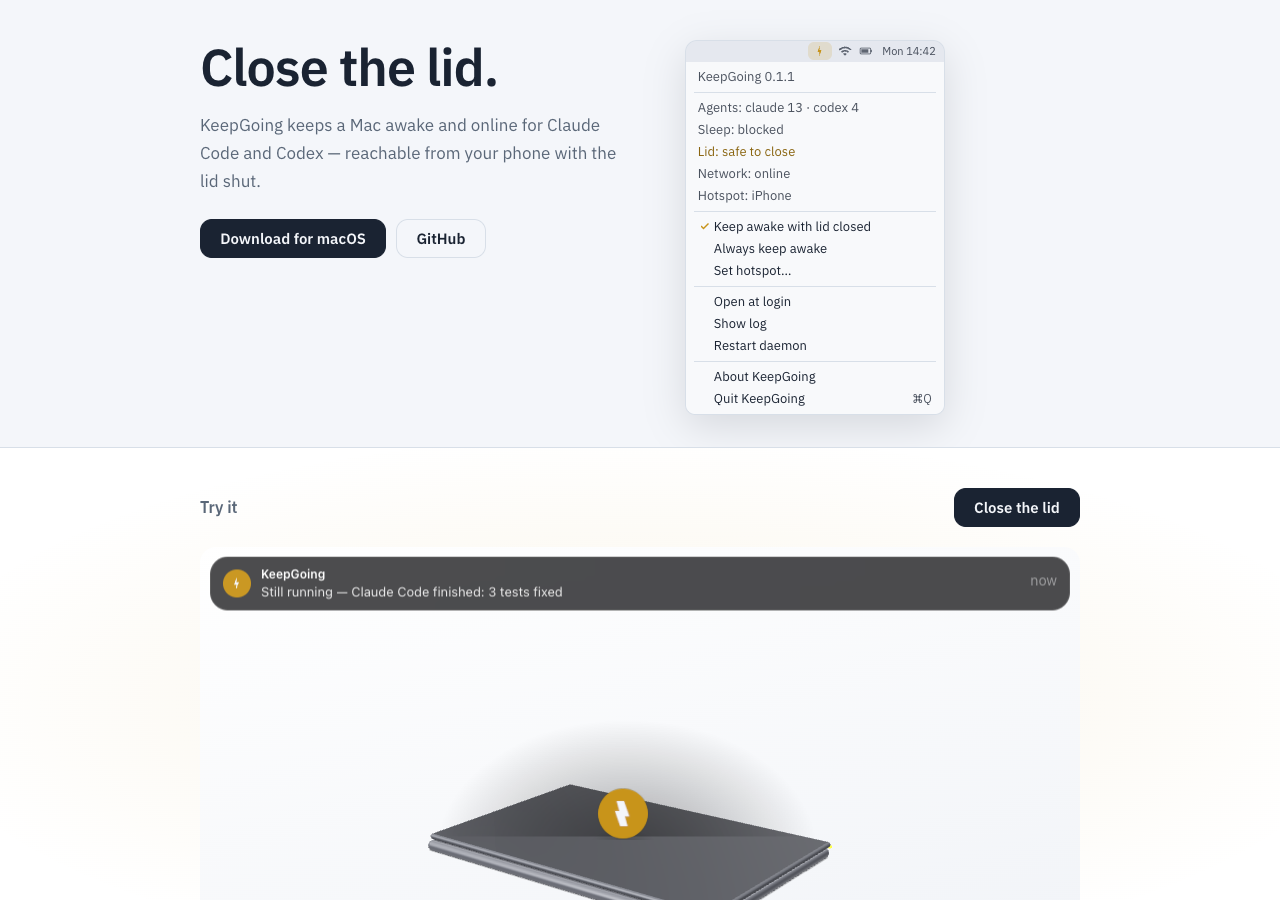
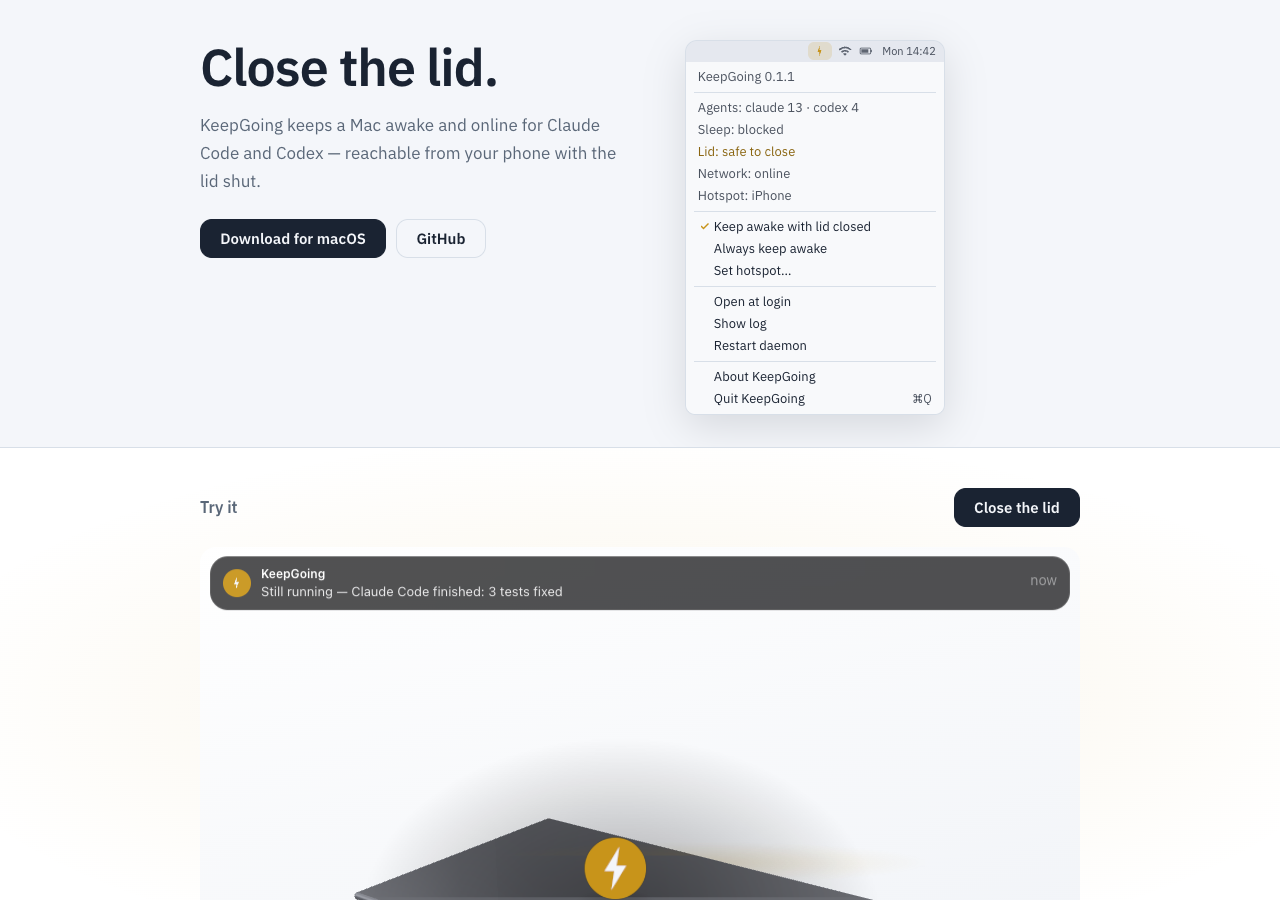
site: G3 3D demo fixes — cache bust, framing, screen, keys, bolt, hinge
Version the dynamic import, fit laptop to 70% stage width, fix blank screen
texture orientation, raise key grid above inset well, favicon bolt badge,
visible hinge glow line, and refreshed fallback PNGs.

Changed region(s): [[0.25, 0.8711, 0.6875, 1.0], [0.2812, 0.6533, 0.4375, 0.6844]]

diff --git a/site/demo-3d.js b/site/demo-3d.js
@@ -9,6 +9,7 @@ const LID_MS = 900;
 const CLOSED_FADE_MS = 400;
 const LOOK_AT = new THREE.Vector3(0, 0.25, -0.2);
 const CAM_DIR = new THREE.Vector3(3.4, 2.2, 4.4).sub(LOOK_AT).normalize();
+const BOLT_SVG_PATH = 'M18.2 4 10 17.5h5.4L13.8 28l8.2-13.5h-5.4L18.2 4z';
 
 function easeInOutCubic(t) {
   return t < 0.5 ? 4 * t * t * t : 1 - Math.pow(-2 * t + 2, 3) / 2;
@@ -16,37 +17,38 @@ function easeInOutCubic(t) {
 
 function makeScreenTexture() {
   const canvas = document.createElement('canvas');
-  canvas.width = 640;
-  canvas.height = 400;
+  canvas.width = 1024;
+  canvas.height = 640;
   const ctx = canvas.getContext('2d');
   ctx.fillStyle = '#0d1117';
   ctx.fillRect(0, 0, canvas.width, canvas.height);
   ctx.fillStyle = '#161b22';
-  ctx.fillRect(0, 0, canvas.width, 36);
+  ctx.fillRect(0, 0, canvas.width, 56);
   ctx.fillStyle = '#0a0a0a';
-  ctx.fillRect(252, 0, 136, 22);
-  ctx.font = '28px ui-monospace, "JetBrains Mono", Menlo, monospace';
+  ctx.fillRect(404, 0, 216, 34);
+  ctx.font = '40px ui-monospace, "JetBrains Mono", Menlo, monospace';
   ctx.fillStyle = '#b8c5d6';
-  ctx.fillText('$ npm test', 36, 88);
+  ctx.fillText('$ npm test', 56, 140);
   ctx.fillStyle = '#3fb950';
-  ctx.fillText('✓ 3 passing', 36, 138);
+  ctx.fillText('✓ 3 passing', 56, 220);
   ctx.fillStyle = '#c8941a';
-  ctx.fillText('Done — 3 tests fixed', 36, 188);
+  ctx.fillText('Done — 3 tests fixed', 56, 300);
   const tex = new THREE.CanvasTexture(canvas);
   tex.colorSpace = THREE.SRGBColorSpace;
   tex.needsUpdate = true;
   return tex;
 }
 
-function makeRadialSprite(size, innerAlpha, outerAlpha) {
+function makeRadialSprite(innerAlpha, outerAlpha, color) {
   const canvas = document.createElement('canvas');
   const s = 256;
   canvas.width = s;
   canvas.height = s;
   const ctx = canvas.getContext('2d');
   const g = ctx.createRadialGradient(s / 2, s / 2, 0, s / 2, s / 2, s / 2);
-  g.addColorStop(0, 'rgba(0,0,0,' + innerAlpha + ')');
-  g.addColorStop(1, 'rgba(0,0,0,' + outerAlpha + ')');
+  const rgb = color || '0,0,0';
+  g.addColorStop(0, 'rgba(' + rgb + ',' + innerAlpha + ')');
+  g.addColorStop(1, 'rgba(' + rgb + ',' + outerAlpha + ')');
   ctx.fillStyle = g;
   ctx.fillRect(0, 0, s, s);
   const tex = new THREE.CanvasTexture(canvas);
@@ -58,43 +60,86 @@ function makeRadialSprite(size, innerAlpha, outerAlpha) {
 
 function makeBoltSprite() {
   const canvas = document.createElement('canvas');
-  canvas.width = 128;
-  canvas.height = 128;
+  canvas.width = 256;
+  canvas.height = 256;
   const ctx = canvas.getContext('2d');
   ctx.fillStyle = '#c8941a';
   ctx.beginPath();
-  ctx.arc(64, 64, 56, 0, Math.PI * 2);
+  ctx.arc(128, 128, 112, 0, Math.PI * 2);
   ctx.fill();
+  ctx.save();
+  ctx.translate(128, 128);
+  ctx.scale(6.5, 6.5);
+  ctx.translate(-16, -16);
   ctx.fillStyle = '#f4f6fa';
-  ctx.beginPath();
-  ctx.moveTo(58, 92);
-  ctx.lineTo(46, 58);
-  ctx.lineTo(56, 58);
-  ctx.lineTo(50, 36);
-  ctx.lineTo(66, 36);
-  ctx.lineTo(78, 70);
-  ctx.lineTo(68, 70);
-  ctx.lineTo(74, 92);
-  ctx.closePath();
-  ctx.fill();
+  ctx.fill(new Path2D(BOLT_SVG_PATH));
+  ctx.restore();
   const tex = new THREE.CanvasTexture(canvas);
   tex.colorSpace = THREE.SRGBColorSpace;
+  tex.needsUpdate = true;
   return new THREE.Sprite(new THREE.SpriteMaterial({
     map: tex, transparent: true, toneMapped: false
   }));
 }
 
-function fitCamera(camera, object, aspect, margin) {
-  const box = new THREE.Box3().setFromObject(object);
-  const sphere = box.getBoundingSphere(new THREE.Sphere());
-  const fovV = camera.fov * Math.PI / 180;
-  const fovH = 2 * Math.atan(Math.tan(fovV / 2) * aspect);
-  const distV = (sphere.radius * margin) / Math.sin(fovV / 2);
-  const distH = (sphere.radius * margin) / Math.sin(fovH / 2);
-  const dist = Math.max(distV, distH);
-  camera.position.copy(LOOK_AT).addScaledVector(CAM_DIR, dist);
-  camera.lookAt(LOOK_AT);
-  return LOOK_AT.clone();
+function fitCameraFramed(camera, laptop, lidGroup) {
+  const savedRot = lidGroup.rotation.x;
+  lidGroup.rotation.x = OPEN_ANGLE;
+  laptop.updateMatrixWorld(true);
+  const box = new THREE.Box3().setFromObject(laptop);
+  const pts = [];
+  const mx = box.min.x; const my = box.min.y; const mz = box.min.z;
+  const Mx = box.max.x; const My = box.max.y; const Mz = box.max.z;
+  for (const x of [mx, Mx]) {
+    for (const y of [my, My]) {
+      for (const z of [mz, Mz]) {
+        pts.push(new THREE.Vector3(x, y, z));
+      }
+    }
+  }
+  lidGroup.rotation.x = savedRot;
+  laptop.updateMatrixWorld(true);
+
+  const lookAt = LOOK_AT.clone();
+  let dist = 3.5;
+  const targetW = 1.4;
+  const targetBottom = 1 - 2 * 0.78;
+
+  function measure(d, ly, lx) {
+    lookAt.set(lx, ly, LOOK_AT.z);
+    camera.position.copy(lookAt).addScaledVector(CAM_DIR, d);
+    camera.lookAt(lookAt);
+    let minX = Infinity; let maxX = -Infinity; let minY = Infinity;
+    for (let i = 0; i < pts.length; i++) {
+      const v = pts[i].clone().project(camera);
+      minX = Math.min(minX, v.x);
+      maxX = Math.max(maxX, v.x);
+      minY = Math.min(minY, v.y);
+    }
+    return { w: maxX - minX, cx: (minX + maxX) * 0.5, minY };
+  }
+
+  for (let i = 0; i < 32; i++) {
+    const m = measure(dist, lookAt.y, lookAt.x);
+    if (m.w < targetW) dist *= 0.9;
+    else dist *= 1.1;
+  }
+
+  let lookY = lookAt.y;
+  for (let i = 0; i < 32; i++) {
+    const m = measure(dist, lookY, lookAt.x);
+    if (m.minY < targetBottom) lookY += 0.012;
+    else lookY -= 0.012;
+  }
+
+  for (let i = 0; i < 24; i++) {
+    const m = measure(dist, lookY, lookAt.x);
+    lookAt.x -= m.cx * 0.12;
+  }
+
+  camera.position.copy(lookAt).addScaledVector(CAM_DIR, dist);
+  camera.lookAt(lookAt);
+  return lookAt;
 }
 
 function makeAlu(color) {
@@ -156,7 +201,7 @@ export function initLaptopDemo(canvas, onClosedChange, onFirstFrame) {
   ground.receiveShadow = true;
   scene.add(ground);
 
-  const contactShadow = makeRadialSprite(1, 0.35, 0);
+  const contactShadow = makeRadialSprite(0.35, 0);
   contactShadow.scale.set(3.4, 2.4, 1);
   contactShadow.position.set(0, 0.001, 0);
   scene.add(contactShadow);
@@ -173,22 +218,29 @@ export function initLaptopDemo(canvas, onClosedChange, onFirstFrame) {
   base.receiveShadow = true;
   laptop.add(base);
 
+  const WELL_DEPTH = 0.008;
+  const WELL_TOP = 0.094;
   const kbWell = new THREE.Mesh(
-    new THREE.PlaneGeometry(2.5, 0.8),
-    new THREE.MeshStandardMaterial({ color: 0x1c1c1e, roughness: 0.95 })
+    new RoundedBoxGeometry(2.5, WELL_DEPTH, 0.8, 2, 0.002),
+    new THREE.MeshStandardMaterial({ color: 0x141416, roughness: 0.95 })
   );
-  kbWell.rotation.x = -Math.PI / 2;
-  kbWell.position.set(0, 0.0948, 0.1);
+  kbWell.position.set(0, WELL_TOP - WELL_DEPTH * 0.5, 0.1);
   laptop.add(kbWell);
 
-  const keyGeo = new RoundedBoxGeometry(0.13, 0.006, 0.11, 2, 0.008);
+  const KEY_W = 0.13;
+  const KEY_GAP = 0.012;
+  const KEY_PITCH = KEY_W + KEY_GAP;
+  const KEY_D = 0.11;
+  const KEY_ROW_PITCH = KEY_D + KEY_GAP;
+  const KEY_Y = WELL_TOP - WELL_DEPTH + 0.006;
+  const keyGeo = new RoundedBoxGeometry(KEY_W, 0.006, KEY_D, 2, 0.008);
   const keyMat = new THREE.MeshStandardMaterial({ color: 0x1c1c1e, roughness: 0.9 });
   const keys = new THREE.InstancedMesh(keyGeo, keyMat, 70);
   let ki = 0;
   for (let row = 0; row < 5; row++) {
     for (let col = 0; col < 14; col++) {
       const m = new THREE.Matrix4();
-      m.setPosition(-0.91 + col * 0.135, 0.097, -0.22 + row * 0.13);
+      m.setPosition(-0.915 + col * KEY_PITCH, KEY_Y, -0.22 + row * KEY_ROW_PITCH);
       keys.setMatrixAt(ki++, m);
     }
   }
@@ -221,30 +273,44 @@ export function initLaptopDemo(canvas, onClosedChange, onFirstFrame) {
   lidGroup.add(lid);
 
   const screenTex = makeScreenTexture();
-  const screen = new THREE.Mesh(
-    new THREE.PlaneGeometry(2.84, 1.79),
-    new THREE.MeshBasicMaterial({ map: screenTex, toneMapped: false })
-  );
-  screen.position.set(0, 0.024, 0.975);
-  screen.rotation.x = -Math.PI / 2;
-  screen.rotation.y = Math.PI;
+  const screenMat = new THREE.MeshBasicMaterial({
+    map: screenTex,
+    toneMapped: false,
+    side: THREE.FrontSide
+  });
+  const screen = new THREE.Mesh(new THREE.PlaneGeometry(2.84, 1.79), screenMat);
+  screen.position.set(0, 0.001, 0.976);
+  screen.rotation.x = Math.PI / 2;
+  screen.renderOrder = 2;
   lidGroup.add(screen);
+
+  if (typeof console !== 'undefined' && console.log) {
+    console.log('[demo-3d] screen texture', screenTex.image.width, 'x', screenTex.image.height);
+    console.log('[demo-3d] screen material.map === texture', screenMat.map === screenTex);
+    console.log('[demo-3d] screen side FrontSide', screenMat.side === THREE.FrontSide);
+  }
 
   const notch = new THREE.Mesh(
     new THREE.PlaneGeometry(0.22, 0.04),
-    new THREE.MeshBasicMaterial({ color: 0x0a0a0a, toneMapped: false })
+    new THREE.MeshBasicMaterial({ color: 0x0a0a0a, toneMapped: false, side: THREE.FrontSide })
   );
-  notch.position.set(0, 0.0255, 0.22);
-  notch.rotation.x = -Math.PI / 2;
-  notch.rotation.y = Math.PI;
+  notch.position.set(0, 0.002, 0.22);
+  notch.rotation.x = Math.PI / 2;
+  notch.renderOrder = 3;
   lidGroup.add(notch);
+
+  const hingeGlowLine = makeRadialSprite(0.4, 0, '200,148,26');
+  hingeGlowLine.scale.set(3.2, 0.3, 1);
+  hingeGlowLine.position.set(0, 0.101, -1.0);
+  hingeGlowLine.material.opacity = 0;
+  laptop.add(hingeGlowLine);
 
   const hingeGlow = new THREE.Mesh(
     new THREE.BoxGeometry(3.0, 0.02, 0.03),
     new THREE.MeshStandardMaterial({
       color: 0xc8941a,
       emissive: 0xc8941a,
-      emissiveIntensity: 3,
+      emissiveIntensity: 4,
       transparent: true,
       opacity: 0,
       toneMapped: false
@@ -254,12 +320,12 @@ export function initLaptopDemo(canvas, onClosedChange, onFirstFrame) {
   laptop.add(hingeGlow);
 
   const bolt = makeBoltSprite();
-  bolt.scale.set(0.5, 0.5, 1);
+  bolt.scale.set(0.45, 0.45, 1);
   bolt.position.set(0, 0.35, 0.05);
   bolt.material.opacity = 0;
   laptop.add(bolt);
 
-  const boltShadow = makeRadialSprite(1, 0.22, 0);
+  const boltShadow = makeRadialSprite(0.22, 0);
   boltShadow.scale.set(0.55, 0.22, 1);
   boltShadow.position.set(0, 0.12, 0.05);
   boltShadow.material.opacity = 0;
@@ -296,7 +362,7 @@ export function initLaptopDemo(canvas, onClosedChange, onFirstFrame) {
     renderer.setSize(w, h, false);
     camera.aspect = w / h;
     camera.updateProjectionMatrix();
-    controls.target.copy(fitCamera(camera, laptop, w / h, 1.1));
+    controls.target.copy(fitCameraFramed(camera, laptop, lidGroup));
   }
 
   const ro = new ResizeObserver(resize);
@@ -338,6 +404,7 @@ export function initLaptopDemo(canvas, onClosedChange, onFirstFrame) {
   function applyClosedState(isClosed) {
     const vis = closedFade > 0.01;
     hingeGlow.visible = vis;
+    hingeGlowLine.visible = vis;
     bolt.visible = vis;
     boltShadow.visible = vis;
   }
@@ -357,6 +424,7 @@ export function initLaptopDemo(canvas, onClosedChange, onFirstFrame) {
     if (closed) {
       const pulse = 0.7 + 0.3 * (0.5 + 0.5 * Math.sin(effectT * Math.PI));
       hingeGlow.material.opacity = closedFade * pulse;
+      hingeGlowLine.material.opacity = closedFade * 0.4;
       bolt.material.opacity = closedFade;
       boltShadow.material.opacity = closedFade * 0.85;
       const bob = Math.sin(effectT * Math.PI) * 0.05;
@@ -364,6 +432,7 @@ export function initLaptopDemo(canvas, onClosedChange, onFirstFrame) {
       boltShadow.position.y = 0.12 + bob * 0.3;
     } else {
       hingeGlow.material.opacity = 0;
+      hingeGlowLine.material.opacity = 0;
       bolt.material.opacity = 0;
       boltShadow.material.opacity = 0;
     }
@@ -397,7 +466,7 @@ export function initLaptopDemo(canvas, onClosedChange, onFirstFrame) {
       pmrem.dispose();
       renderer.dispose();
       screenTex.dispose();
-      [bolt, boltShadow, contactShadow].forEach(function (s) {
+      [bolt, boltShadow, contactShadow, hingeGlowLine].forEach(function (s) {
         if (s.material.map) s.material.map.dispose();
         s.material.dispose();
       });

diff --git a/site/demo.js b/site/demo.js
@@ -15,6 +15,7 @@
   var loading = false;
   var modPromise = null;
   var initPromise = null;
+  var DEMO_3D_VER = '10';
   var useFallback = reduced || !hasWebGL();
 
   function hasWebGL() {
@@ -73,7 +74,7 @@
   }
 
   function prefetch3d() {
-    if (!modPromise) modPromise = import('./demo-3d.js');
+    if (!modPromise) modPromise = import('./demo-3d.js?v=' + DEMO_3D_VER);
     return modPromise;
   }
 

diff --git a/site/index.html b/site/index.html
@@ -223,7 +223,7 @@ SleepDisabled 1                    # still running, on battery</code></pre>
       <span class="foot-version">Version 0.1.1</span>
     </div>
   </footer>
-  <script src="demo.js?v=9" defer></script>
+  <script src="demo.js?v=10" defer></script>
   <script defer src="/_vercel/insights/script.js"></script>
 </body>
 </html>
